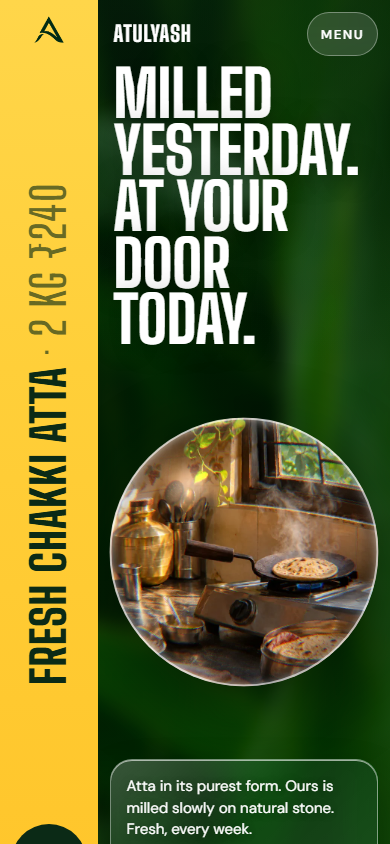
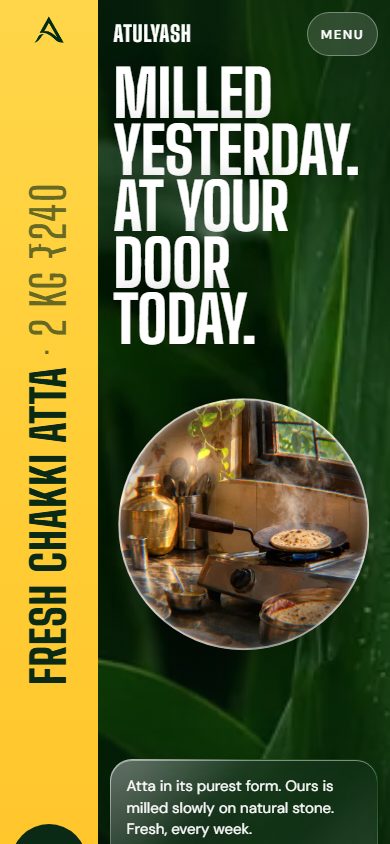
5 Lens: keep the original 5 layout and sharp wheat wall, lenses replace only the fluted panels

diff --git a/blends/5-lens/index.html b/blends/5-lens/index.html
@@ -11,34 +11,30 @@
 <link rel="stylesheet" href="https://fonts.googleapis.com/css2?family=Big+Shoulders+Display:wght@600..900&family=DM+Sans:opsz,wght@9..40,400..700&display=swap">
 <link rel="stylesheet" href="../glass.css">
 <style>
-/* 5 Lens. The wheat field sits soft behind frosted glass; every photo is seen through one thick, clear lens
-   that magnifies the middle and bends at the rim. The yellow pillar carries the brand down the left. */
-:root{--sun:#FFCF39;--ink:#0B2A16;--col:25%;--g:16px}
+/* 5 Lens. The sharp wheat wall, with one thick clear lens onto the kitchen wherever 5 Reeded had fluted glass.
+   A full-height yellow column runs down the left like a painted kitchen pillar, and comes back as the pack selector. */
+:root{--glass:rgba(22,92,44,.30);--sun:#FFCF39;--ink:#0B2A16;--col:25%;--g:16px}
 *{box-sizing:border-box}
 body{margin:0;color:#fff;font:400 15.5px/1.55 "DM Sans",system-ui,sans-serif;-webkit-font-smoothing:antialiased;overflow-x:clip}
-/* the whole wall sits behind frosted glass */
-body::before{inset:-24px;filter:blur(10px) saturate(1.25)}
-body::after{background:linear-gradient(180deg,rgba(5,25,10,.34),rgba(5,25,10,.22) 40%,rgba(5,25,10,.46))}
 img{display:block;max-width:100%;height:auto}
 a{color:inherit}
 :focus-visible{outline:3px solid #fff;outline-offset:3px}
 h1,h2,h3{margin:0;font-family:"Big Shoulders Display",Impact,sans-serif;font-weight:800;text-transform:uppercase;letter-spacing:-.005em;line-height:.9}
-h2{font-size:clamp(44px,12.4vw,64px)}
+h2{font-size:clamp(46px,13vw,72px)}
 .k{font:700 13px/1.3 "DM Sans";letter-spacing:.12em;text-transform:uppercase}
 
-/* clear glass */
-.cg{border:1px solid rgba(255,255,255,.42);
-  background:linear-gradient(140deg,rgba(255,255,255,.22),rgba(255,255,255,.05) 46%,rgba(255,255,255,.10)),rgba(8,36,16,.26);
-  -webkit-backdrop-filter:blur(14px) saturate(1.6);backdrop-filter:blur(14px) saturate(1.6);
-  box-shadow:inset 0 1px 0 rgba(255,255,255,.6),inset 0 -10px 24px rgba(0,0,0,.08),0 22px 44px rgba(0,0,0,.24)}
-.cg p,.cg b,.cg span{text-shadow:0 1px 10px rgba(0,0,0,.3)}
-
-/* the lens: a baked image of the photo through thick glass, plus a live rim and drop shadow */
-.lens{position:relative;aspect-ratio:1;border-radius:50%;filter:drop-shadow(0 26px 40px rgba(0,0,0,.42))}
+/* a thick clear lens takes the place of the fluted glass: the wheat wall stays sharp around it,
+   and the photo sits inside, magnified in the middle and bent at the rim */
+.lens{position:absolute;z-index:1;aspect-ratio:1;border-radius:50%;filter:drop-shadow(0 24px 36px rgba(0,0,0,.42))}
 .lens img{width:100%;height:100%;border-radius:50%}
 .lens::after{content:"";position:absolute;inset:0;border-radius:50%;pointer-events:none;box-shadow:inset 0 0 0 2px rgba(255,255,255,.55),inset -10px -14px 30px rgba(0,0,0,.22),inset 10px 12px 26px rgba(255,255,255,.16)}
+.hero .lens{left:50%;top:57%;width:min(86%,330px);transform:translate(-50%,-50%)}
+.mani .lens{right:var(--g);top:56px;width:min(64%,300px)}
+.panel .lens{left:50%;top:44%;width:84%;transform:translate(-50%,-50%)}
+.close .lens{left:var(--g);top:40px;width:min(62%,290px)}
+.shade{position:absolute;inset:0;z-index:1;pointer-events:none;background:linear-gradient(180deg,rgba(6,30,14,.62),rgba(6,30,14,0) 38%,rgba(6,30,14,0) 62%,rgba(6,30,14,.7))}
+.plate{border-radius:22px}
 
-/* ---------- first screen ---------- */
 .col{position:relative;z-index:2;background:linear-gradient(180deg,#FFD64A,var(--sun) 40%,#FFC52A);color:var(--ink)}
 .hero{position:relative;height:100svh;min-height:720px;max-height:920px;display:grid;grid-template-columns:var(--col) 1fr}
 .hero .col{display:flex;flex-direction:column;align-items:center;justify-content:space-between;padding:16px 0 20px}
@@ -47,60 +43,47 @@ h2{font-size:clamp(44px,12.4vw,64px)}
 .hero .v span{font-weight:600;opacity:.62}
 .round{display:grid;place-items:center;width:76px;height:76px;border-radius:50%;background:var(--ink);color:#fff;text-decoration:none;font:700 13px/1.15 "DM Sans";text-align:center}
 .view{position:relative;overflow:hidden}
-.hero .view::before{content:"";position:absolute;inset:0;background:linear-gradient(180deg,rgba(6,30,14,.45),rgba(6,30,14,0) 40%)}
 .bar{position:absolute;z-index:3;top:12px;right:12px;left:16px;display:flex;justify-content:space-between;align-items:center}
 .bar .name{display:inline-flex;align-items:center;min-height:44px;font:800 22px/1 "Big Shoulders Display";letter-spacing:.04em;text-transform:uppercase;text-decoration:none}
 .menu>summary{display:flex;align-items:center;min-height:44px;padding:0 14px;border-radius:99px;font:600 13px/1 "DM Sans";letter-spacing:.12em;background:rgba(255,255,255,.14);box-shadow:inset 0 0 0 1px rgba(255,255,255,.35);-webkit-backdrop-filter:blur(12px);backdrop-filter:blur(12px)}
 .menu>nav{border-radius:20px}
-.hero h1{position:absolute;z-index:2;left:16px;right:12px;top:66px;font-size:clamp(56px,16.5vw,84px);line-height:.88;text-shadow:0 2px 28px rgba(0,0,0,.35)}
-.hero .lens{position:absolute;z-index:1;left:50%;top:60%;width:min(92%,340px);transform:translate(-50%,-50%)}
-.hero .bottom{position:absolute;z-index:3;left:12px;right:12px;bottom:14px;padding:16px;border-radius:22px}
+.hero h1{text-shadow:0 2px 28px rgba(0,0,0,.35);position:absolute;z-index:2;left:16px;right:12px;top:66px;font-size:clamp(56px,16.5vw,84px);line-height:.88}
+.hero .bottom{position:absolute;z-index:2;left:12px;right:12px;bottom:14px;padding:16px}
 .hero .bottom p{margin:0;font-size:15px;line-height:1.45}
 .hero .bottom a{display:inline-flex;align-items:center;min-height:44px;margin-top:4px;font-weight:700;text-underline-offset:4px}
 
-/* ---------- why we question atta ---------- */
-.mani{position:relative;padding:72px var(--g) 0}
-.mani .lens{width:72%;margin:0 -6px 0 auto}
-.mani .cg{position:relative;margin-top:-90px;padding:22px 20px;border-radius:24px}
-.mani .cg .k{display:block;margin-bottom:10px;opacity:.85}
-.mani .cg p{margin:14px 0 0;line-height:1.6}
+.mani{position:relative;height:640px;margin-top:0}
+.mani .plate{position:absolute;z-index:2;left:var(--g);right:var(--g);bottom:18px;padding:20px 18px}
+.mani h2{font-size:clamp(44px,12.4vw,64px)}
+.mani p{margin:14px 0 0;font-size:15.5px;line-height:1.6}
+.mani .k{position:absolute;z-index:2;top:20px;left:var(--g);opacity:.8}
 
-/* ---------- the Atulyash way: one lens, tap through the steps ---------- */
-.way{padding:80px var(--g) 10px}
-.way-h{display:flex;justify-content:space-between;align-items:end;gap:12px;margin-bottom:18px}
-.way-h span{opacity:.8;text-align:right}
-.stage{position:relative}
-.stage .lens{width:min(100%,380px);margin:0 auto}
-.stage .lens img{position:absolute;inset:0;opacity:0;transition:opacity .45s ease}
-.stage .lens img.on{opacity:1}
-.chips{display:grid;grid-template-columns:repeat(6,1fr);gap:6px;margin-top:-34px;position:relative;z-index:2;padding:6px;border-radius:16px}
-.chips button{min-height:44px;border:0;border-radius:11px;background:transparent;color:#fff;font:800 20px/1 "Big Shoulders Display";cursor:pointer}
-.chips button[aria-selected="true"]{background:var(--sun);color:var(--ink)}
-.txt{margin-top:10px;padding:16px 18px;border-radius:20px;min-height:112px}
-.txt b{display:block;font:800 32px/.95 "Big Shoulders Display";text-transform:uppercase}
-.txt p{margin:8px 0 0;font-size:15px;line-height:1.45}
+.panels{padding:64px 0 10px}
+.ph{display:flex;justify-content:space-between;align-items:end;padding:0 20px 20px}
+.ph span{opacity:.75;text-align:right}
+.track{display:flex;gap:12px;overflow-x:auto;scroll-snap-type:x mandatory;padding:0 20px 10px;scrollbar-width:none}
+.track::-webkit-scrollbar{display:none}
+.panel{position:relative;flex:0 0 72%;height:480px;scroll-snap-align:start;overflow:hidden;border-radius:24px;box-shadow:inset 0 0 0 1px rgba(255,255,255,.28)}
+.panel .shade{background:linear-gradient(180deg,rgba(6,30,14,.35),transparent 30%,transparent 55%,rgba(6,30,14,.6))}
+.panel .n{text-shadow:0 2px 6px rgba(0,0,0,.35),0 4px 26px rgba(0,0,0,.55);position:absolute;z-index:2;top:12px;left:14px;font:900 96px/.8 "Big Shoulders Display";color:rgba(255,255,255,.94)}
+.panel .t{position:absolute;z-index:2;left:10px;right:10px;bottom:10px;padding:14px;border-radius:18px}
+.panel .t b{display:block;font:800 32px/.95 "Big Shoulders Display";text-transform:uppercase}
+.panel .t p{margin:8px 0 0;font-size:14px;line-height:1.4}
 
-/* ---------- packs ---------- */
-.packs{display:grid;grid-template-columns:var(--col) 1fr;min-height:580px;margin-top:72px}
+.packs{display:grid;grid-template-columns:var(--col) 1fr;min-height:580px;margin-top:54px}
 .packs .col{display:flex;flex-direction:column}
 .seg{flex:1;display:flex;flex-direction:column;align-items:center;justify-content:center;border:0;border-bottom:2px solid rgba(11,42,22,.18);background:transparent;color:var(--ink);font:800 40px/.9 "Big Shoulders Display"}
 .seg small{font:600 13px/1.2 "DM Sans";margin-top:6px}
 .seg[aria-pressed="true"]{background:var(--ink);color:var(--sun)}
 .packs .view{min-height:580px}
+.packs .pk{position:absolute;z-index:2;left:50%;top:50%;width:52%;transform:translate(-50%,-46%);filter:drop-shadow(0 20px 24px rgba(0,0,0,.45))}
 .packs .tt{position:absolute;z-index:2;top:18px;left:16px;right:16px}
 .packs .tt p{margin:8px 0 0}
-.packs .disc{position:absolute;left:50%;top:53%;width:80%;aspect-ratio:1;transform:translate(-50%,-50%);border-radius:50%;
-  background:radial-gradient(circle at 34% 28%,rgba(255,255,255,.34),rgba(255,255,255,.06) 42%,rgba(255,255,255,.02) 70%),rgba(8,36,16,.18);
-  -webkit-backdrop-filter:blur(6px) saturate(1.4);backdrop-filter:blur(6px) saturate(1.4);
-  box-shadow:inset 0 0 0 2px rgba(255,255,255,.5),inset -12px -16px 34px rgba(0,0,0,.22),0 26px 40px rgba(0,0,0,.3)}
-.packs .pk{position:absolute;z-index:2;left:50%;top:53%;width:50%;transform:translate(-50%,-50%);filter:drop-shadow(0 20px 24px rgba(0,0,0,.45))}
-.packs .bt{position:absolute;z-index:2;left:12px;right:12px;bottom:12px;padding:10px;border-radius:20px}
+.packs .bt{position:absolute;z-index:2;left:12px;right:12px;bottom:12px;padding:10px}
 .buy{display:flex;justify-content:space-between;align-items:center;min-height:56px;padding:0 18px;border-radius:14px;background:#fff;color:var(--ink);font-weight:700;text-decoration:none}
 
-/* ---------- close ---------- */
-.close{position:relative;padding:80px var(--g) 0}
-.close .lens{width:68%;margin:0 0 0 -4px}
-.close .cg{position:relative;margin-top:-80px;padding:20px 18px;border-radius:24px}
+.close{position:relative;min-height:620px;margin-top:54px}
+.close .plate{position:absolute;z-index:2;left:var(--g);right:var(--g);bottom:18px;padding:20px 18px}
 .close h2{font-size:clamp(42px,12vw,60px)}
 form{margin-top:18px}
 form label{display:block}
@@ -108,25 +91,24 @@ form label{display:block}
 .pinrow input{height:54px;padding:0 14px;border:0;border-radius:12px;background:rgba(255,255,255,.95);color:var(--ink)}
 .pinrow button{height:54px;padding:0 20px;border:0;border-radius:12px;background:var(--sun);color:var(--ink);font-weight:800}
 .links{display:grid;grid-template-columns:1fr 1fr;gap:8px;margin-top:14px}
-.links a{display:flex;align-items:center;justify-content:center;min-height:50px;border-radius:12px;box-shadow:inset 0 0 0 1px rgba(255,255,255,.6);background:rgba(255,255,255,.08);text-decoration:none;font-weight:700}
-.foot{display:flex;justify-content:space-between;padding:40px 20px 40px;font:800 24px/1 "Big Shoulders Display";text-transform:uppercase}
+.links a{display:flex;align-items:center;justify-content:center;min-height:50px;border-radius:12px;box-shadow:inset 0 0 0 1px rgba(255,255,255,.5);text-decoration:none;font-weight:700}
+.foot{display:flex;justify-content:space-between;padding:30px 20px 40px;font:800 24px/1 "Big Shoulders Display";text-transform:uppercase}
 .foot span:last-child{font:600 13px/1.4 "DM Sans";letter-spacing:.1em;text-align:right;opacity:.75}
 
 @media (min-width:900px){
+  .hero .lens{left:auto;right:6%;top:46%;transform:translateY(-50%);width:min(34vw,440px)}
+  .mani .lens{right:auto;left:var(--g);top:60px;width:420px}
+  .close .lens{top:60px;width:400px}
   :root{--col:clamp(180px,18%,260px);--g:40px}
   .hero h1{font-size:120px;max-width:9ch;top:90px;left:40px}
-  .hero .lens{left:auto;right:3%;top:50%;transform:translateY(-50%);width:min(38vw,520px)}
   .hero .bottom{left:auto;width:420px;right:30px;bottom:30px}
-  .mani,.close{display:grid;grid-template-columns:1fr 1fr;align-items:center;max-width:1180px;margin-left:auto;margin-right:auto}
-  .mani .lens,.close .lens{width:100%;margin:0}
-  .mani .cg,.close .cg{margin:0 0 0 -60px}
-  .way{max-width:1180px;margin:0 auto;display:grid;grid-template-columns:1fr 1fr;gap:20px 40px;align-items:center}
-  .way-h{grid-column:1/-1}
+  .mani{height:680px}
+  .mani .plate{left:auto;right:40px;width:520px;bottom:40px}
+  .panel{flex-basis:32%;height:560px}
   .packs .pk{width:300px}
-  .packs .disc{width:460px}
   .packs .bt{left:auto;width:420px;right:24px}
+  .close .plate{left:auto;right:40px;width:520px;bottom:40px}
 }
-@media (prefers-reduced-motion:reduce){.stage .lens img{transition:none}}
 </style>
 </head>
 <body>
@@ -139,41 +121,35 @@ form label{display:block}
     <a class="round" href="#packs">See<br>packs</a>
   </aside>
   <div class="view">
+    <div class="lens"><img src="../img/lens/kitchen-steam.webp" alt="Rotis cooking on a tawa, seen through a round glass lens" width="720" height="720"></div>
+    <div class="shade"></div>
     <header class="bar">
       <a class="name" href="#top">Atulyash</a>
       <details class="menu" data-menu><summary>MENU</summary><nav class="gl" aria-label="Main"><a href="#packs">Packs and prices</a><a href="#mani-h">Why we question atta</a><a href="#way-h">The Atulyash way</a><a href="#pin">Check delivery</a></nav></details>
     </header>
     <h1 id="hero-h">Milled yesterday. At your door today.</h1>
-    <div class="lens"><img src="../img/lens/kitchen-steam.webp" alt="Rotis cooking on a tawa, seen through a round glass lens" width="720" height="720"></div>
-    <div class="bottom cg"><p>Atta in its purest form. Ours is milled slowly on natural stone. Fresh, every week.</p><a href="#pin">Check delivery to my area <span class="arr" aria-hidden="true"></span></a></div>
+    <div class="bottom gl dense plate"><p>Atta in its purest form. Ours is milled slowly on natural stone. Fresh, every week.</p><a href="#pin">Check delivery to my area <span class="arr" aria-hidden="true"></span></a></div>
   </div>
 </section>
 
 <section class="mani" aria-labelledby="mani-h">
-  <div class="lens"><img loading="lazy" src="../img/lens/thali-hands.webp" alt="Hands serving rotis" width="720" height="720"></div>
-  <div class="cg">
-    <span class="k">Why we question atta</span>
+  <div class="lens" aria-hidden="true"><img src="../img/lens/thali-hands.webp" alt="" width="720" height="720" loading="lazy"></div>
+  <div class="plate gl dense">
     <h2 id="mani-h">We question everything. Why not atta?</h2>
     <p>We keep changing everything around us. Our skincare, our cooking oil, even our utensils, because we research what is best for our family. So why don't we stop and think about our atta? Its quality, where it comes from, how it is made. We just take their word for it.</p>
   </div>
 </section>
 
-<section class="way" aria-labelledby="way-h">
-  <div class="way-h"><h2 id="way-h">The Atulyash way</h2><span class="k">Tap a step</span></div>
-  <div class="stage" data-stage>
-    <div class="lens">
-      <img class="on" loading="lazy" src="../img/lens/field-day.webp" alt="" width="720" height="720">
-      <img loading="lazy" src="../img/lens/cleaning.webp" alt="" width="720" height="720">
-      <img loading="lazy" src="../img/lens/chakki-flour.webp" alt="" width="720" height="720">
-      <img loading="lazy" src="../img/lens/packing.webp" alt="" width="720" height="720">
-      <img loading="lazy" src="../img/lens/phulka-tawa.webp" alt="" width="720" height="720">
-      <img loading="lazy" src="../img/lens/rider.webp" alt="" width="720" height="720">
-    </div>
-    <div class="chips cg" role="tablist" aria-label="Steps">
-      <button role="tab" aria-selected="true" aria-controls="step-txt">01</button><button role="tab" aria-selected="false" aria-controls="step-txt">02</button><button role="tab" aria-selected="false" aria-controls="step-txt">03</button><button role="tab" aria-selected="false" aria-controls="step-txt">04</button><button role="tab" aria-selected="false" aria-controls="step-txt">05</button><button role="tab" aria-selected="false" aria-controls="step-txt">06</button>
-    </div>
+<section class="panels" aria-labelledby="way-h">
+  <div class="ph"><h2 id="way-h">The Atulyash way</h2><span class="k">Swipe<br><span class="arr" aria-hidden="true"></span></span></div>
+  <div class="track" tabindex="0" aria-label="Six steps, scroll sideways">
+    <div class="panel"><div class="lens" aria-hidden="true"><img src="../img/lens/field-day.webp" alt="" width="720" height="720" loading="lazy"></div><div class="shade"></div><span class="n">01</span><div class="t gl dense"><b>The wheat</b><p>Single-origin MP Sharbati. Never blended with other varieties.</p></div></div>
+    <div class="panel"><div class="lens" aria-hidden="true"><img src="../img/lens/cleaning.webp" alt="" width="720" height="720" loading="lazy"></div><div class="shade"></div><span class="n">02</span><div class="t gl dense"><b>The cleaning</b><p>In several stages.</p></div></div>
+    <div class="panel"><div class="lens" aria-hidden="true"><img src="../img/lens/chakki-flour.webp" alt="" width="720" height="720" loading="lazy"></div><div class="shade"></div><span class="n">03</span><div class="t gl dense"><b>The stone</b><p>Natural stone chakkis. No emery stone, no steel rollers.</p></div></div>
+    <div class="panel"><div class="lens" aria-hidden="true"><img src="../img/lens/packing.webp" alt="" width="720" height="720" loading="lazy"></div><div class="shade"></div><span class="n">04</span><div class="t gl dense"><b>The packing</b><p>Packed with minimal handling.</p></div></div>
+    <div class="panel"><div class="lens" aria-hidden="true"><img src="../img/lens/phulka-tawa.webp" alt="" width="720" height="720" loading="lazy"></div><div class="shade"></div><span class="n">05</span><div class="t gl dense"><b>The milling day</b><p>Milled in small batches the day before, delivered the next morning.</p></div></div>
+    <div class="panel"><div class="lens" aria-hidden="true"><img src="../img/lens/rider.webp" alt="" width="720" height="720" loading="lazy"></div><div class="shade"></div><span class="n">06</span><div class="t gl dense"><b>The riders</b><p>We deliver with our own riders.</p></div></div>
   </div>
-  <div class="cg txt" id="step-txt" role="tabpanel" aria-live="polite"><b>The wheat</b><p>Single-origin MP Sharbati. Never blended with other varieties.</p></div>
 </section>
 
 <section class="packs" id="packs" aria-labelledby="packs-h">
@@ -183,16 +159,17 @@ form label{display:block}
     <button class="seg" data-kg="6" aria-pressed="false">6 kg<small>₹720</small></button>
   </aside>
   <div class="view">
+    
+    <div class="shade"></div>
     <div class="tt"><h2 id="packs-h">Choose<br>your pack</h2><p>₹120 a kg, about ₹3.60 a roti.</p></div>
-    <div class="disc" aria-hidden="true"></div>
     <img class="pk" loading="lazy" src="../img/pack.webp" alt="Atulyash 2 kg pack" width="900" height="1334">
-    <div class="bt cg"><a class="buy" data-order href="https://wa.me/919818588996">Order fresh atta <span><span data-total>₹240</span> <span class="arr" aria-hidden="true"></span></span></a></div>
+    <div class="bt gl plate"><a class="buy" data-order href="https://wa.me/919818588996">Order fresh atta <span><span data-total>₹240</span> <span class="arr" aria-hidden="true"></span></span></a></div>
   </div>
 </section>
 
 <section class="close" id="pin" aria-labelledby="close-h">
-  <div class="lens"><img loading="lazy" src="../img/lens/roti-cloth.webp" alt="" width="720" height="720"></div>
-  <div class="cg">
+  <div class="lens" aria-hidden="true"><img src="../img/lens/roti-cloth.webp" alt="" width="720" height="720" loading="lazy"></div>
+  <div class="plate gl dense">
     <h2 id="close-h">Bring home atta in its purest form.</h2>
     <form data-pin novalidate>
       <label class="k" for="pin-in">Do we deliver to you?</label>
@@ -205,17 +182,5 @@ form label{display:block}
 </main>
 <footer class="foot"><span>Freshly milled.<br>Delivered weekly.</span><span>Delhi NCR</span></footer>
 <script src="../core.js"></script>
-<script>
-(function(){
-var st=document.querySelector('[data-stage]');if(!st)return;
-var S=[["The wheat","Single-origin MP Sharbati. Never blended with other varieties."],["The cleaning","In several stages."],["The stone","Natural stone chakkis. No emery stone, no steel rollers."],["The packing","Packed with minimal handling."],["The milling day","Milled in small batches the day before, delivered the next morning."],["The riders","We deliver with our own riders."]];
-var imgs=st.querySelectorAll('.lens img'),bs=st.querySelectorAll('[role=tab]'),tx=document.getElementById('step-txt'),cur=0;
-function go(i){cur=i;imgs.forEach(function(m,j){m.classList.toggle('on',j===i)});bs.forEach(function(b,j){b.setAttribute('aria-selected',j===i?'true':'false')});tx.innerHTML='<b>'+S[i][0]+'</b><p>'+S[i][1]+'</p>'}
-bs.forEach(function(b,i){b.addEventListener('click',function(){go(i)})});
-var x0=null,lz=st.querySelector('.lens');
-lz.addEventListener('touchstart',function(e){x0=e.touches[0].clientX},{passive:true});
-lz.addEventListener('touchend',function(e){if(x0===null)return;var dx=e.changedTouches[0].clientX-x0;if(Math.abs(dx)>40)go(Math.max(0,Math.min(5,cur+(dx<0?1:-1))));x0=null},{passive:true});
-})();
-</script>
 </body>
 </html>
